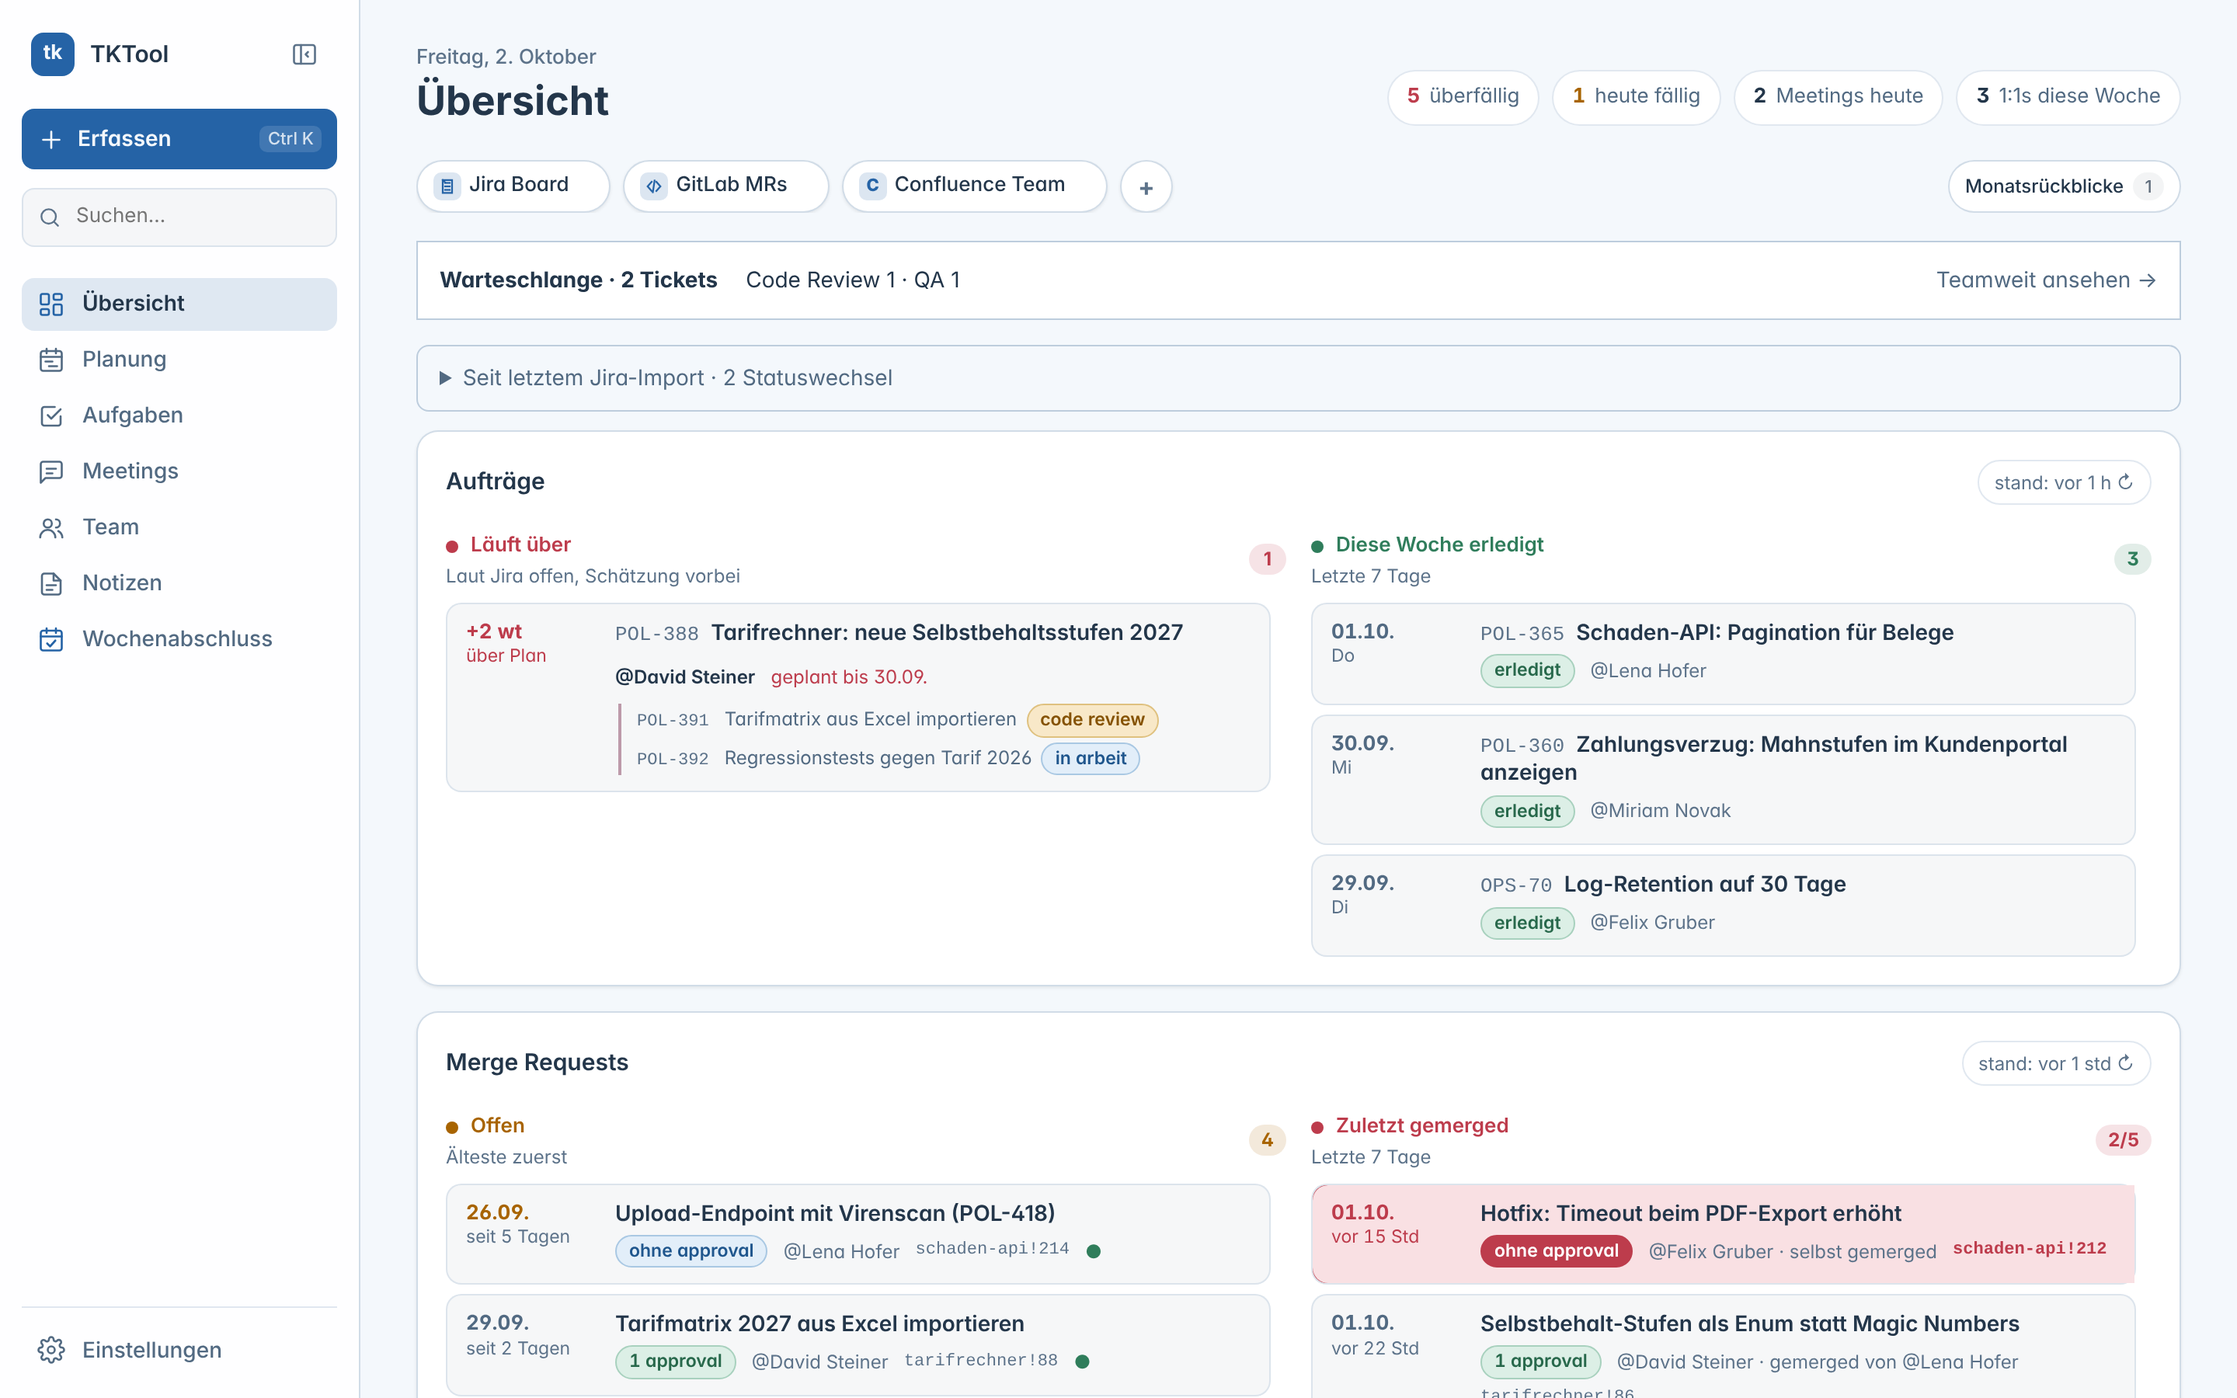
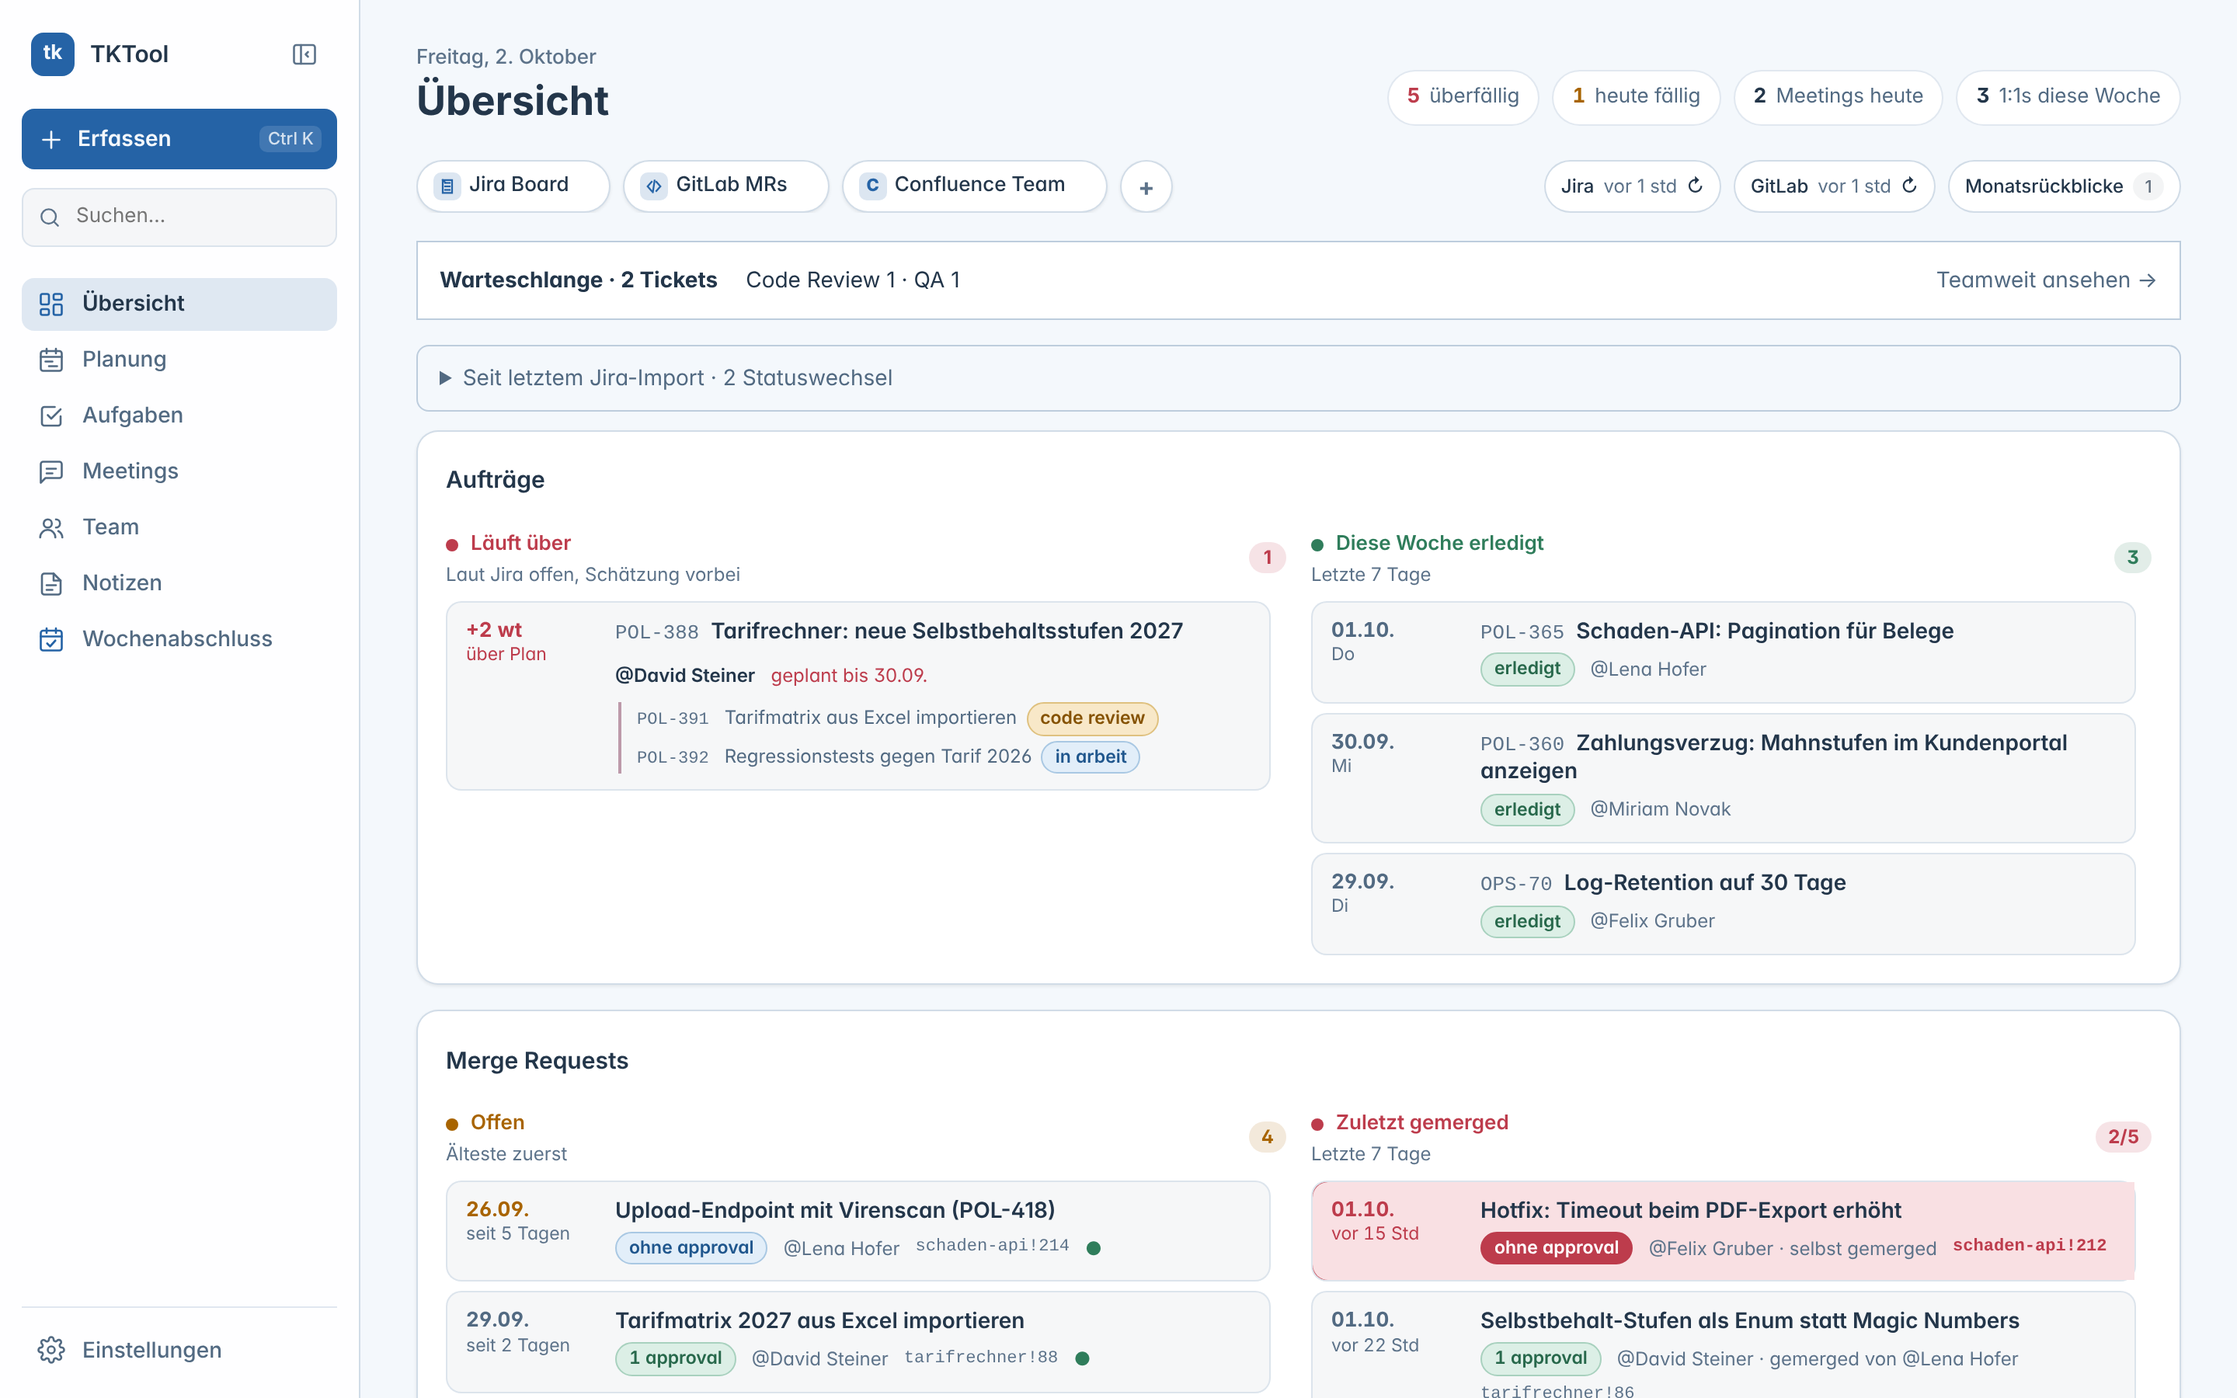
Übersicht: Jira- und GitLab-Stand oben rechts mit Aktualisieren
Je ein Knopf neben Monatsrückblicke zeigt, wie alt der letzte Import ist,
und öffnet den Import. Ab einem Tag wird er gelb. Die kleinen Stand-Stempel
auf den Karten entfallen dafür.

diff --git a/TKTool.html b/TKTool.html
@@ -7692,7 +7692,6 @@ body[data-theme] .tf-work-metric > :not(.tf-now) { grid-row: 1; white-space: now
 /* --- GitLab Merge Requests (Snapshot gitlab-mrs.json) --- */
 .gitlab-card { margin-bottom: 16px; }
 .gitlab-card .card-header { display: flex; align-items: center; gap: 10px; }
-.gitlab-card .card-header .jira-sync-stamp { margin-left: auto; }
 .gitlab-card .review-due-item-main { width: 100%; }
 .gitlab-item-calm .review-due-item-day { color: var(--text-secondary); }
 .gitlab-ref { font-family: ui-monospace, SFMono-Regular, Menlo, Consolas, monospace; font-size: 12px; color: var(--text-muted); }
@@ -7787,7 +7786,6 @@ body[data-theme] .shutdown-side > .card { margin-bottom: 0; }
 /* --- Auftraege: was laenger braucht als geplant --- */
 .auftraege-card { margin-bottom: 16px; }
 .auftraege-card .card-header { display: flex; align-items: center; gap: 10px; }
-.auftraege-card .card-header .jira-sync-stamp { margin-left: auto; }
 .auftraege-card .review-due-item-main { width: 100%; }
 .auftraege-key { margin-right: 4px; font-family: ui-monospace, SFMono-Regular, Menlo, Consolas, monospace; font-size: 12px; font-weight: 500; color: var(--text-muted); }
 .auftraege-person-row { display: flex; align-items: baseline; gap: 10px; margin-top: 6px; font-size: 12px; }
@@ -7799,6 +7797,12 @@ body[data-theme] .shutdown-side > .card { margin-bottom: 0; }
 .auftraege-item-calm .review-due-item-day { color: var(--text-secondary); }
 .review-due-section-success .review-due-section-title,
 .review-due-section-success .review-due-section-count { color: var(--success); }
+
+/* --- Jira-/GitLab-Stand oben rechts auf der Übersicht --- */
+.dashboard-header-actions { display: flex; flex-wrap: wrap; align-items: center; justify-content: flex-end; gap: 8px; margin-left: auto; }
+.dashboard-sync-age { color: var(--text-muted); font-weight: 400; }
+.dashboard-sync-stale { border-color: var(--warning); color: var(--warning); }
+.dashboard-sync-stale .dashboard-sync-age { color: var(--warning); }
 
 </style>
 <style data-source="./themes/dark.css">
@@ -9335,7 +9339,7 @@ body[data-theme="spaceship"] input[type="month"]::-webkit-calendar-picker-indica
 // ============================================================
 // DATA LAYER — File System Access API
 // ============================================================
-const APP_VERSION = '1.0.80';
+const APP_VERSION = '1.0.81';
 const DATA_FILENAME = 'tktool-data.json';
 const JIRA_SYNC_FILENAME = 'jira-tickets.json';
 const JIRA_QUERY_MAX_RESULTS = 100;
@@ -13047,21 +13051,16 @@ function gitlabAgeLabel(iso, prefix) {
   return `${prefix} ${days} Tagen`;
 }
 
-function gitlabSyncAgeLabel() {
-  return gitlabSyncData ? agoLabel(gitlabSyncData.generatedAt) : '';
-}
-
 // ------------------------------------------------------------
 // Karte auf der Übersicht
 // ------------------------------------------------------------
 function renderGitlabMergeRequests() {
   if (!gitlabSyncData && !getGitlabGroupUrl()) return '';
-  const stamp = `<button class="jira-sync-stamp" type="button" onclick="openGitlabImport()" title="GitLab-Abfrage öffnen und Antwort einspielen">stand: ${esc(gitlabSyncAgeLabel() || 'unbekannt')} &#8635;</button>`;
   if (!gitlabSyncData) {
     return `
       <div class="card gitlab-card">
-        <div class="card-header"><span class="card-title">Merge Requests</span>${stamp}</div>
-        <div class="review-due-empty">Noch nichts eingespielt. Klick auf den Stand öffnet die Abfrage.</div>
+        <div class="card-header"><span class="card-title">Merge Requests</span></div>
+        <div class="review-due-empty">Noch nichts eingespielt. Oben rechts auf „GitLab“ klicken.</div>
       </div>`;
   }
   const open = gitlabSyncData.open || [];
@@ -13069,7 +13068,7 @@ function renderGitlabMergeRequests() {
   const unapproved = merged.filter(mr => !gitlabApprovalCount(mr)).length;
   return `
     <div class="card gitlab-card">
-      <div class="card-header"><span class="card-title">Merge Requests</span>${stamp}</div>
+      <div class="card-header"><span class="card-title">Merge Requests</span></div>
       <div class="review-due-panel">
         <div class="review-due-sections">
           <div class="review-due-section review-due-section-warning">
@@ -15040,6 +15039,32 @@ function renderDashboardReviewAction() {
   `;
 }
 
+// Wie alt sind Jira- und GitLab-Stand? Steht oben rechts, damit man vor dem
+// Lesen der Karten weiss, ob sie noch stimmen. Klick oeffnet den Import.
+// Ab einem Tag wird der Knopf gelb: dann zeigen die Karten gestern.
+const SYNC_STALE_HOURS = 24;
+
+function renderDashboardSyncButton(label, generatedAt, onclick) {
+  const ageHours = generatedAt ? (Date.now() - Date.parse(generatedAt)) / 3600000 : Infinity;
+  const stale = !(ageHours < SYNC_STALE_HOURS);
+  return `
+    <button class="btn btn-secondary btn-sm dashboard-review-action dashboard-sync ${stale ? 'dashboard-sync-stale' : ''}" onclick="${onclick}" title="${label}-Stand aktualisieren">
+      <span>${label}</span>
+      <span class="dashboard-sync-age">${esc(generatedAt ? agoLabel(generatedAt) : 'nie')}</span>
+      <span aria-hidden="true">&#8635;</span>
+    </button>`;
+}
+
+function renderDashboardSyncButtons() {
+  const jira = jiraSyncData || getJiraBaseUrl()
+    ? renderDashboardSyncButton('Jira', jiraSyncData && jiraSyncData.generatedAt, 'openJiraImport()')
+    : '';
+  const gitlab = gitlabSyncData || getGitlabGroupUrl()
+    ? renderDashboardSyncButton('GitLab', gitlabSyncData && gitlabSyncData.generatedAt, 'openGitlabImport()')
+    : '';
+  return jira + gitlab;
+}
+
 // Muss zur max-height von .tf-blocks-list passen: so viele Zeilen stehen ohne
 // Scrollen da, der Rest wird als "+n" angekuendigt.
 const TF_VISIBLE_BLOCKS = 10;
@@ -15309,7 +15334,7 @@ function renderJiraAuftraegeCard() {
   const resolved = jiraResolvedLastWeek();
   return `
     <div class="card auftraege-card">
-      <div class="card-header"><span class="card-title">Aufträge</span>${jiraSyncStamp()}</div>
+      <div class="card-header"><span class="card-title">Aufträge</span></div>
       <div class="review-due-panel">
         <div class="review-due-sections">
           <div class="review-due-section review-due-section-danger">
@@ -15383,7 +15408,10 @@ function renderReviews() {
   return `
     <div class="section-header">
       ${renderDashboardLinks()}
-      ${renderDashboardReviewAction()}
+      <div class="dashboard-header-actions">
+        ${renderDashboardSyncButtons()}
+        ${renderDashboardReviewAction()}
+      </div>
     </div>
 
     ${jiraWaitingTickets().length ? `<button class="dashboard-waiting" onclick="openWaitingQueue()"><strong>Warteschlange · ${jiraWaitingTickets().length} Tickets</strong><span>${esc(waitingStatusCounts(jiraWaitingTickets()))}</span><span>Teamweit ansehen →</span></button>` : ''}

diff --git a/js/dashboard.js b/js/dashboard.js
@@ -228,6 +228,32 @@ function renderDashboardReviewAction() {
   `;
 }
 
+// Wie alt sind Jira- und GitLab-Stand? Steht oben rechts, damit man vor dem
+// Lesen der Karten weiss, ob sie noch stimmen. Klick oeffnet den Import.
+// Ab einem Tag wird der Knopf gelb: dann zeigen die Karten gestern.
+const SYNC_STALE_HOURS = 24;
+
+function renderDashboardSyncButton(label, generatedAt, onclick) {
+  const ageHours = generatedAt ? (Date.now() - Date.parse(generatedAt)) / 3600000 : Infinity;
+  const stale = !(ageHours < SYNC_STALE_HOURS);
+  return `
+    <button class="btn btn-secondary btn-sm dashboard-review-action dashboard-sync ${stale ? 'dashboard-sync-stale' : ''}" onclick="${onclick}" title="${label}-Stand aktualisieren">
+      <span>${label}</span>
+      <span class="dashboard-sync-age">${esc(generatedAt ? agoLabel(generatedAt) : 'nie')}</span>
+      <span aria-hidden="true">&#8635;</span>
+    </button>`;
+}
+
+function renderDashboardSyncButtons() {
+  const jira = jiraSyncData || getJiraBaseUrl()
+    ? renderDashboardSyncButton('Jira', jiraSyncData && jiraSyncData.generatedAt, 'openJiraImport()')
+    : '';
+  const gitlab = gitlabSyncData || getGitlabGroupUrl()
+    ? renderDashboardSyncButton('GitLab', gitlabSyncData && gitlabSyncData.generatedAt, 'openGitlabImport()')
+    : '';
+  return jira + gitlab;
+}
+
 // Muss zur max-height von .tf-blocks-list passen: so viele Zeilen stehen ohne
 // Scrollen da, der Rest wird als "+n" angekuendigt.
 const TF_VISIBLE_BLOCKS = 10;
@@ -497,7 +523,7 @@ function renderJiraAuftraegeCard() {
   const resolved = jiraResolvedLastWeek();
   return `
     <div class="card auftraege-card">
-      <div class="card-header"><span class="card-title">Aufträge</span>${jiraSyncStamp()}</div>
+      <div class="card-header"><span class="card-title">Aufträge</span></div>
       <div class="review-due-panel">
         <div class="review-due-sections">
           <div class="review-due-section review-due-section-danger">
@@ -571,7 +597,10 @@ function renderReviews() {
   return `
     <div class="section-header">
       ${renderDashboardLinks()}
-      ${renderDashboardReviewAction()}
+      <div class="dashboard-header-actions">
+        ${renderDashboardSyncButtons()}
+        ${renderDashboardReviewAction()}
+      </div>
     </div>
 
     ${jiraWaitingTickets().length ? `<button class="dashboard-waiting" onclick="openWaitingQueue()"><strong>Warteschlange · ${jiraWaitingTickets().length} Tickets</strong><span>${esc(waitingStatusCounts(jiraWaitingTickets()))}</span><span>Teamweit ansehen →</span></button>` : ''}

diff --git a/styles.css b/styles.css
@@ -7608,7 +7608,6 @@ body[data-theme] .tf-work-metric > :not(.tf-now) { grid-row: 1; white-space: now
 /* --- GitLab Merge Requests (Snapshot gitlab-mrs.json) --- */
 .gitlab-card { margin-bottom: 16px; }
 .gitlab-card .card-header { display: flex; align-items: center; gap: 10px; }
-.gitlab-card .card-header .jira-sync-stamp { margin-left: auto; }
 .gitlab-card .review-due-item-main { width: 100%; }
 .gitlab-item-calm .review-due-item-day { color: var(--text-secondary); }
 .gitlab-ref { font-family: ui-monospace, SFMono-Regular, Menlo, Consolas, monospace; font-size: 12px; color: var(--text-muted); }
@@ -7703,7 +7702,6 @@ body[data-theme] .shutdown-side > .card { margin-bottom: 0; }
 /* --- Auftraege: was laenger braucht als geplant --- */
 .auftraege-card { margin-bottom: 16px; }
 .auftraege-card .card-header { display: flex; align-items: center; gap: 10px; }
-.auftraege-card .card-header .jira-sync-stamp { margin-left: auto; }
 .auftraege-card .review-due-item-main { width: 100%; }
 .auftraege-key { margin-right: 4px; font-family: ui-monospace, SFMono-Regular, Menlo, Consolas, monospace; font-size: 12px; font-weight: 500; color: var(--text-muted); }
 .auftraege-person-row { display: flex; align-items: baseline; gap: 10px; margin-top: 6px; font-size: 12px; }
@@ -7715,3 +7713,9 @@ body[data-theme] .shutdown-side > .card { margin-bottom: 0; }
 .auftraege-item-calm .review-due-item-day { color: var(--text-secondary); }
 .review-due-section-success .review-due-section-title,
 .review-due-section-success .review-due-section-count { color: var(--success); }
+
+/* --- Jira-/GitLab-Stand oben rechts auf der Übersicht --- */
+.dashboard-header-actions { display: flex; flex-wrap: wrap; align-items: center; justify-content: flex-end; gap: 8px; margin-left: auto; }
+.dashboard-sync-age { color: var(--text-muted); font-weight: 400; }
+.dashboard-sync-stale { border-color: var(--warning); color: var(--warning); }
+.dashboard-sync-stale .dashboard-sync-age { color: var(--warning); }

diff --git a/js/gitlab.js b/js/gitlab.js
@@ -155,21 +155,16 @@ function gitlabAgeLabel(iso, prefix) {
   return `${prefix} ${days} Tagen`;
 }
 
-function gitlabSyncAgeLabel() {
-  return gitlabSyncData ? agoLabel(gitlabSyncData.generatedAt) : '';
-}
-
 // ------------------------------------------------------------
 // Karte auf der Übersicht
 // ------------------------------------------------------------
 function renderGitlabMergeRequests() {
   if (!gitlabSyncData && !getGitlabGroupUrl()) return '';
-  const stamp = `<button class="jira-sync-stamp" type="button" onclick="openGitlabImport()" title="GitLab-Abfrage öffnen und Antwort einspielen">stand: ${esc(gitlabSyncAgeLabel() || 'unbekannt')} &#8635;</button>`;
   if (!gitlabSyncData) {
     return `
       <div class="card gitlab-card">
-        <div class="card-header"><span class="card-title">Merge Requests</span>${stamp}</div>
-        <div class="review-due-empty">Noch nichts eingespielt. Klick auf den Stand öffnet die Abfrage.</div>
+        <div class="card-header"><span class="card-title">Merge Requests</span></div>
+        <div class="review-due-empty">Noch nichts eingespielt. Oben rechts auf „GitLab“ klicken.</div>
       </div>`;
   }
   const open = gitlabSyncData.open || [];
@@ -177,7 +172,7 @@ function renderGitlabMergeRequests() {
   const unapproved = merged.filter(mr => !gitlabApprovalCount(mr)).length;
   return `
     <div class="card gitlab-card">
-      <div class="card-header"><span class="card-title">Merge Requests</span>${stamp}</div>
+      <div class="card-header"><span class="card-title">Merge Requests</span></div>
       <div class="review-due-panel">
         <div class="review-due-sections">
           <div class="review-due-section review-due-section-warning">

diff --git a/js/data.js b/js/data.js
@@ -1,7 +1,7 @@
 // ============================================================
 // DATA LAYER — File System Access API
 // ============================================================
-const APP_VERSION = '1.0.80';
+const APP_VERSION = '1.0.81';
 const DATA_FILENAME = 'tktool-data.json';
 const JIRA_SYNC_FILENAME = 'jira-tickets.json';
 const JIRA_QUERY_MAX_RESULTS = 100;

diff --git a/README.md b/README.md
@@ -121,6 +121,12 @@ the next topic", not run a resource-leveling algorithm. People can be flagged
 for support duty per month (`supportMonate`), shown as a SUP badge in the
 planner and as a year strip in the person's detail.
 
+### Jira and GitLab freshness
+
+Top right on the Übersicht, next to Monatsrückblicke, one button each for
+Jira and GitLab shows how old the last import is and opens the import. It
+turns yellow after a day, because the cards below then show yesterday.
+
 ### Aufträge on the Übersicht
 
 The Übersicht doesn't list every open ticket — the planner already does.
@@ -140,9 +146,10 @@ approval is red; an approval from the author doesn't count. An open MR
 that has waited five days without one turns yellow.
 
 It is fetched like Jira: the app runs under `file://`, so CORS blocks any
-request to a self-managed GitLab. The import dialog (theme menu → GitLab, or
-the stand stamp on the card) opens one GraphQL query in a browser tab where
-you are logged in; you copy the JSON and paste it back. GraphQL rather than
+request to a self-managed GitLab. The import dialog (theme menu → GitLab,
+or the GitLab button at the top right of the Übersicht) opens one GraphQL
+query in a browser tab where you are logged in; you copy the JSON and paste
+it back. GraphQL rather than
 REST because the REST list has no approvals — that would be one request per
 MR. GitLab allows `GET /api/graphql` for read-only queries with the session
 cookie. The snapshot lands in `gitlab-mrs.json` next to the data file.
